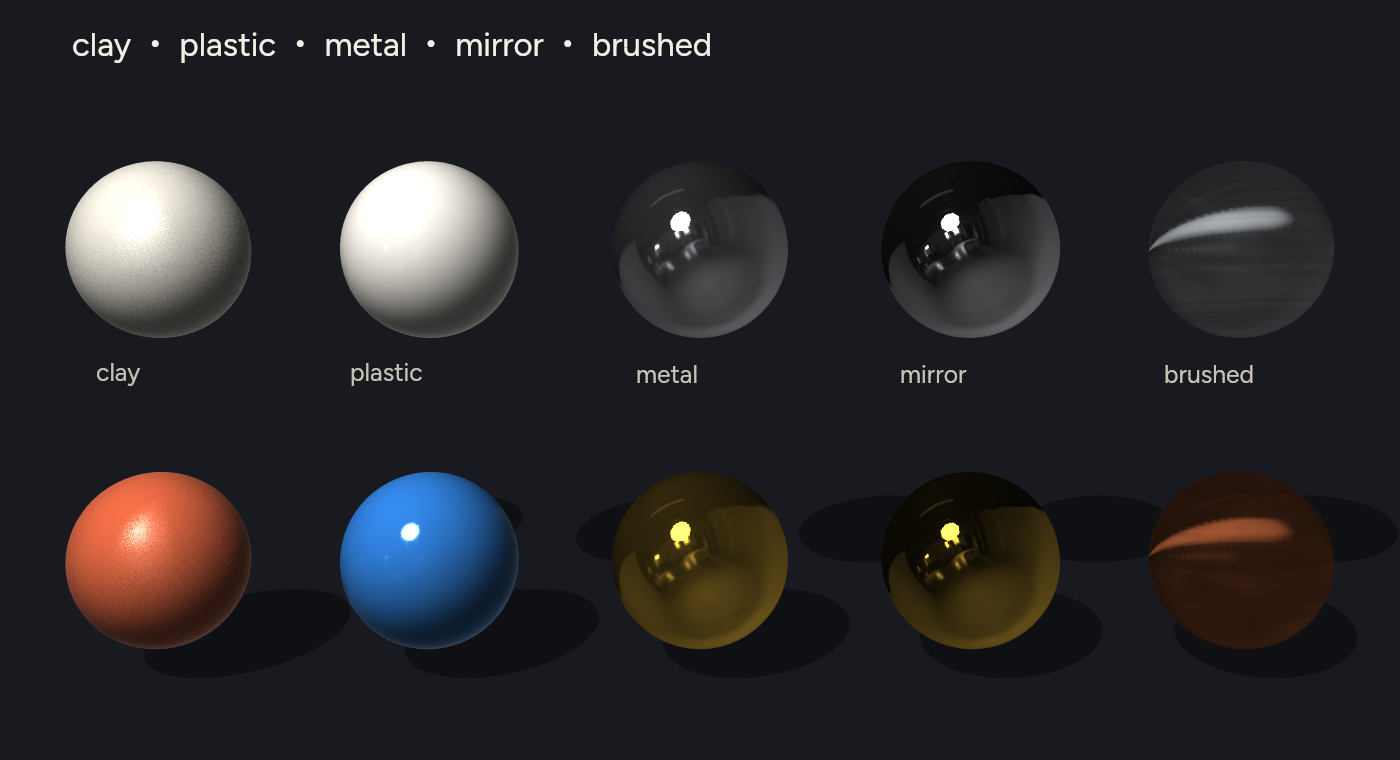
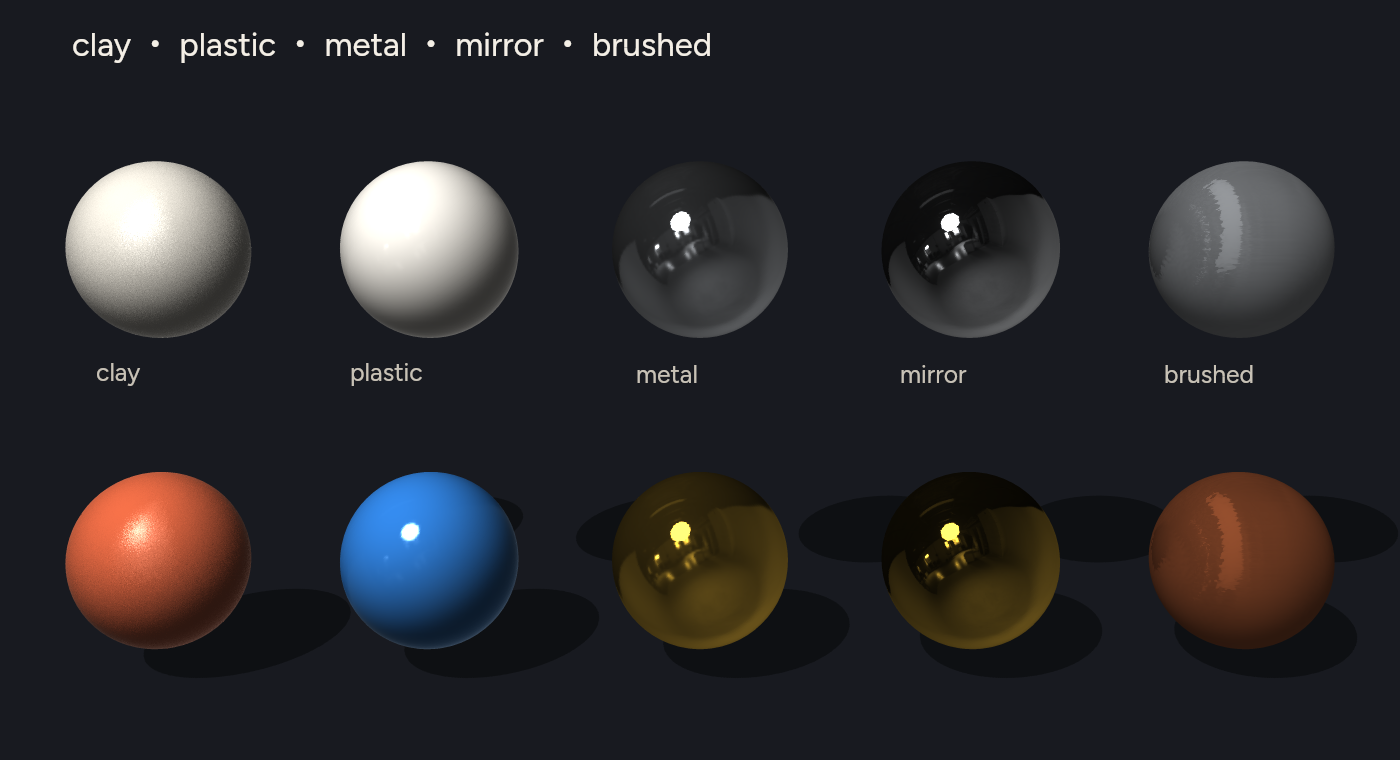
Rebuild the linux addon for brushed metal across the grain.
The highlight sits perpendicular to local-x hairlines and stays in the metal color. darwin-arm64 is unchanged. Version stays 0.13.7.

Changed region(s): [[0.7986, 0.6053, 0.9521, 0.8171], [0.7986, 0.2118, 0.9521, 0.3934]]

diff --git a/CHANGELOG.md b/CHANGELOG.md
@@ -4,7 +4,7 @@
 
 ## 0.13.7
 
-The fixed studio is Poly Haven `monochrome_studio_01` (Grzegorz Wronkowski, CC0). Baked finishes and the older metal, plastic, and glass reflections use it. The umbrella is rotated onto the key light, so highlights and ground shadows stay on the same side. Those reflections sample the photograph at full size. Roughness keeps the previous blur angle. A pixel whose reflection covers more than one texel steps up the pyramid, so a large face does not enlarge the pixel grid. `brushed` blurs that same photograph along the grain and draws the hairlines at the size of a pixel, so the streak stays in the metal color. `native/flexlayer-render` for linux-x64-gnu is rebuilt. The darwin-arm64 binary is unchanged.
+The fixed studio is Poly Haven `monochrome_studio_01` (Grzegorz Wronkowski, CC0). Baked finishes and the older metal, plastic, and glass reflections use it. The umbrella is rotated onto the key light, so highlights and ground shadows stay on the same side. Those reflections sample the photograph at full size. Roughness keeps the previous blur angle. A pixel whose reflection covers more than one texel steps up the pyramid, so a large face does not enlarge the pixel grid. `brushed` samples that photograph at runtime. The highlight runs perpendicular to the grain, the hairlines follow local x, and those grooves show mainly in the highlight. `native/flexlayer-render` for linux-x64-gnu is rebuilt. The darwin-arm64 binary is unchanged.
 
 ## 0.13.6
 
